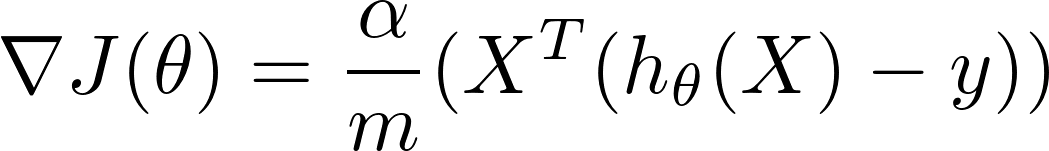
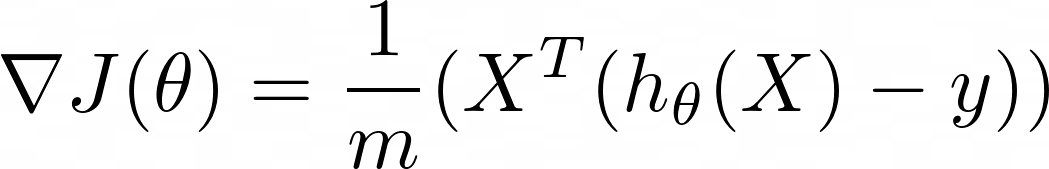
Correct gradient descent formulas

diff --git a/README.md b/README.md
@@ -139,9 +139,9 @@ Here we use a polynomial hypothesis function <img src='img/eq16.png' height='20'
 
 #### Gradient descent
 
-<img src='img/eq22.svg' height='25'/><br/>
+<img src='img/eq22.png' height='35'/><br/>
 
-    Vectorized Gradient descent
+#### Vectorized Gradient descent
 
 <img src='img/eq23.svg' height='25'/>
 
@@ -172,7 +172,7 @@ Here we use a polynomial function <img src='img/eq16.png' height='20'/> to model
 
     We update the 0th parameter without regularization.
 
-<img src='img/eq26.png' height='35'/>
+<img src='img/eq26.png' height='45'/>
 <img src='img/eq27.svg' height='25'/>
 
     Vectorized gradient descent has to be done in two steps.
@@ -184,7 +184,7 @@ Calculate the gradient without regularization and update the 0<sup>th</sup> bias
 
 Add regularization to the gradient and then update the rest of the parameters.
 
-<img src='img/eq29.png' height='35'/><br/>
+<img src='img/eq29.png' height='45'/><br/>
 <img src='img/eq31.png' height='25'/>
 
 <img src='img/data2_regularized_logistic_regression_loss_contour_plot.png' height='300' />
@@ -196,10 +196,10 @@ Add regularization to the gradient and then update the rest of the parameters.
 When creating training and testing sets, scaling must be done carefully:
 
 -   The `scaling object` should be *fit* on the `TRAINING` data
--   The `scaling object` can be used to *transform* the `TRAINING` data now 
+-   The `scaling object` can be used to *transform* the `TRAINING` data now
 -   The `transformed TRAIN` data can be used to the fit the predictive model
 -   The same `scaling object` should be used to *transform* the `TESTING` data
--   The predictive model can now bw used on the `transformed TEST` data to make predictions 
+-   The predictive model can now bw used on the `transformed TEST` data to make predictions
 
 Example with `sklearn`:
 
